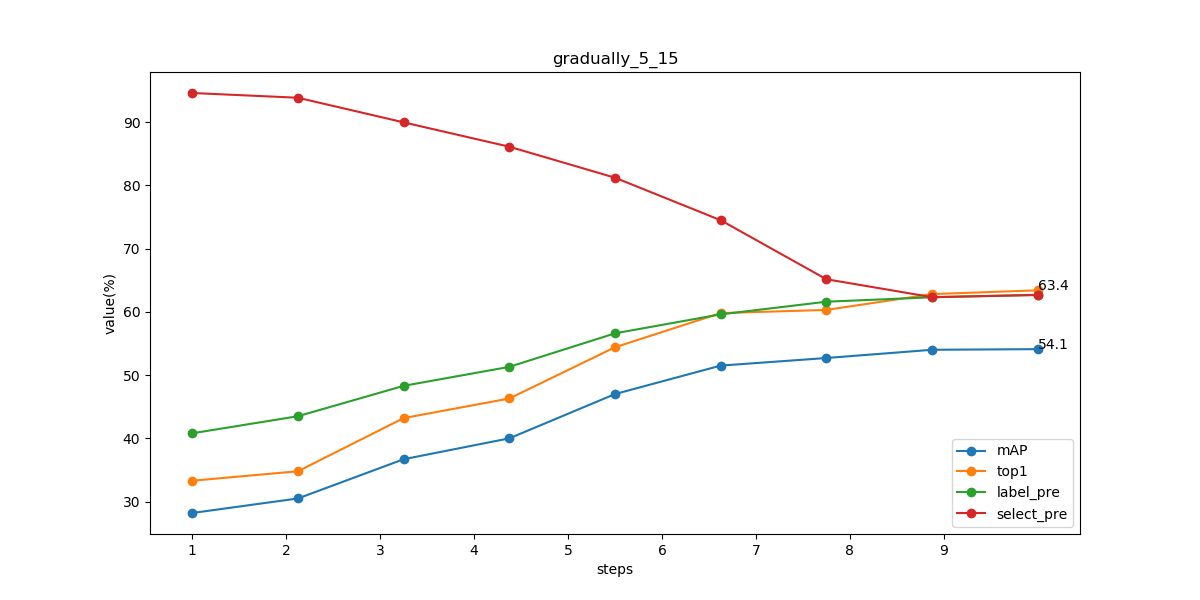
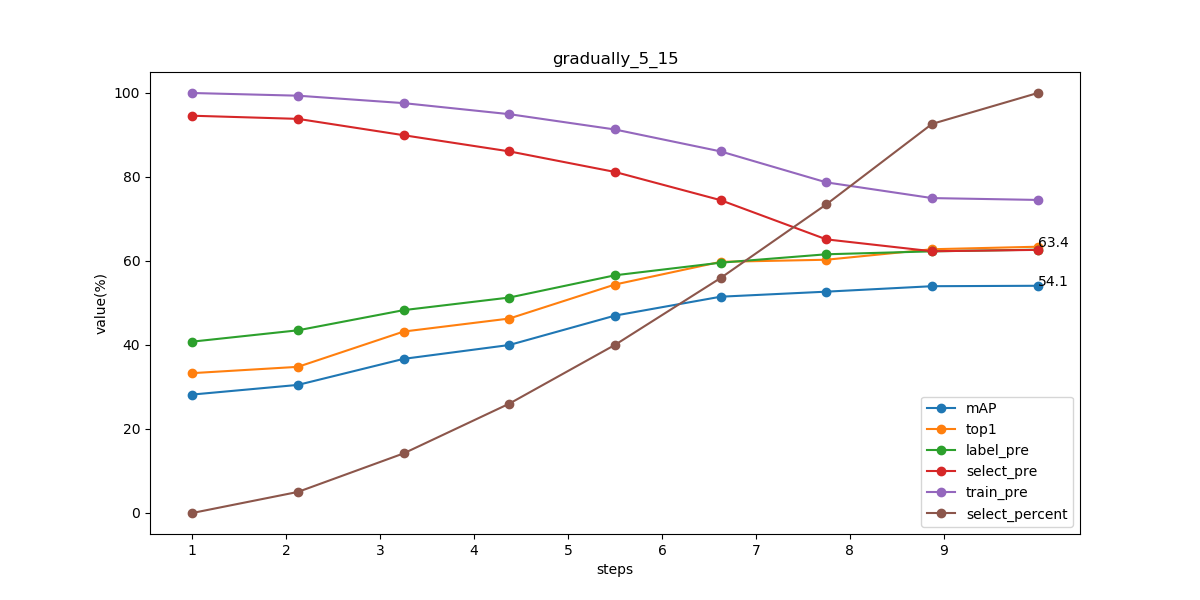
0930

diff --git a/main.py b/main.py
@@ -72,6 +72,9 @@ def draw_lines_for_one_train(train_name):
     plt.annotate(str(train_name["top1"][top1_max]), xy=(top1_max + 2, train_name["top1"][top1_max]))
     plt.plot(x,train_name["label_pre"],label="label_pre",marker='o')
     plt.plot(x,train_name["select_pre"],label="select_pre",marker='o')
+    plt.plot(x,train_name["train_pre"],label="train_pre",marker ="o")
+    plt.plot(x,train_name["select_percent"],label="select_percent",marker ="o")
+    # plt.plot(x,train_name["select_num"],label="select_num",marker ="o")
     plt.xticks(range(1, train_name["length"]+1, 1))
     plt.xlabel("steps")
     plt.ylabel("value(%)")
@@ -175,7 +178,7 @@ def draw_gradually_compare_all():
 
 
 def draw_lines_for_all_train():
-    train_list = [gradually_5_10, gradually_5_13, gradually_5_15, gradually_5_k15]
+    train_list = [gradually_5_10, gradually_5_13, gradually_5_15, gradually_5_k15,gradually_11_15,gradually_55_25,gradually_223_05,gradually_30_04]
     for train_name in train_list:
         draw_lines_for_one_train(train_name)
 
@@ -283,14 +286,14 @@ def init_outf(file_name):
 
 if __name__ =="__main__":
     # pass
-    # draw_lines_for_all_train()
+    draw_lines_for_all_train()
     # draw_gradually_compare_all()
     # draw_gradually_all_percent2()
     # draw_gradually_compare_all()
     # draw_gradually_all_percent2
     # init_outf("requeir_data1.txt")
 
-    draw_gradually_compare_all()
+    # draw_gradually_compare_all()
     # draw_line()
     # select_pre_with_mAP_for_all()
 

diff --git a/dynamic_draw.py b/dynamic_draw.py
@@ -1,0 +1,38 @@
+#!/usr/bin/python
+# -*- coding: utf-8 -*-
+'''
+@AUTHOR:Joselyn Zhao
+@CONTACT:zhaojing17@foxmail.com
+@HOME_PAGE:joselynzhao.top
+@SOFTWERE:PyCharm
+@FILE:dynamic_draw.py
+@TIME:2019/9/30 10:50
+@DES:
+'''
+
+from data import  *
+import  numpy as np
+import matplotlib.pyplot as plt
+import  codecs
+import  math
+
+# 动态图绘制器
+class gif_drawer():
+    def __init__(self):
+        plt.ion()
+        self.xs = [0, 0]
+        self.ys = [0, 0]
+
+    def draw(self, update_x, update_y):
+        self.xs[0] = self.xs[1]
+        self.ys[0] = self.ys[1]
+
+        self.xs[1] = update_x
+        self.ys[1] = update_y
+
+        plt.title("Training Accuracy")
+        plt.xlabel("iteration")
+        plt.ylabel("accuracy")
+        plt.plot(self.xs, self.ys, )
+        plt.pause(0.1)
+
